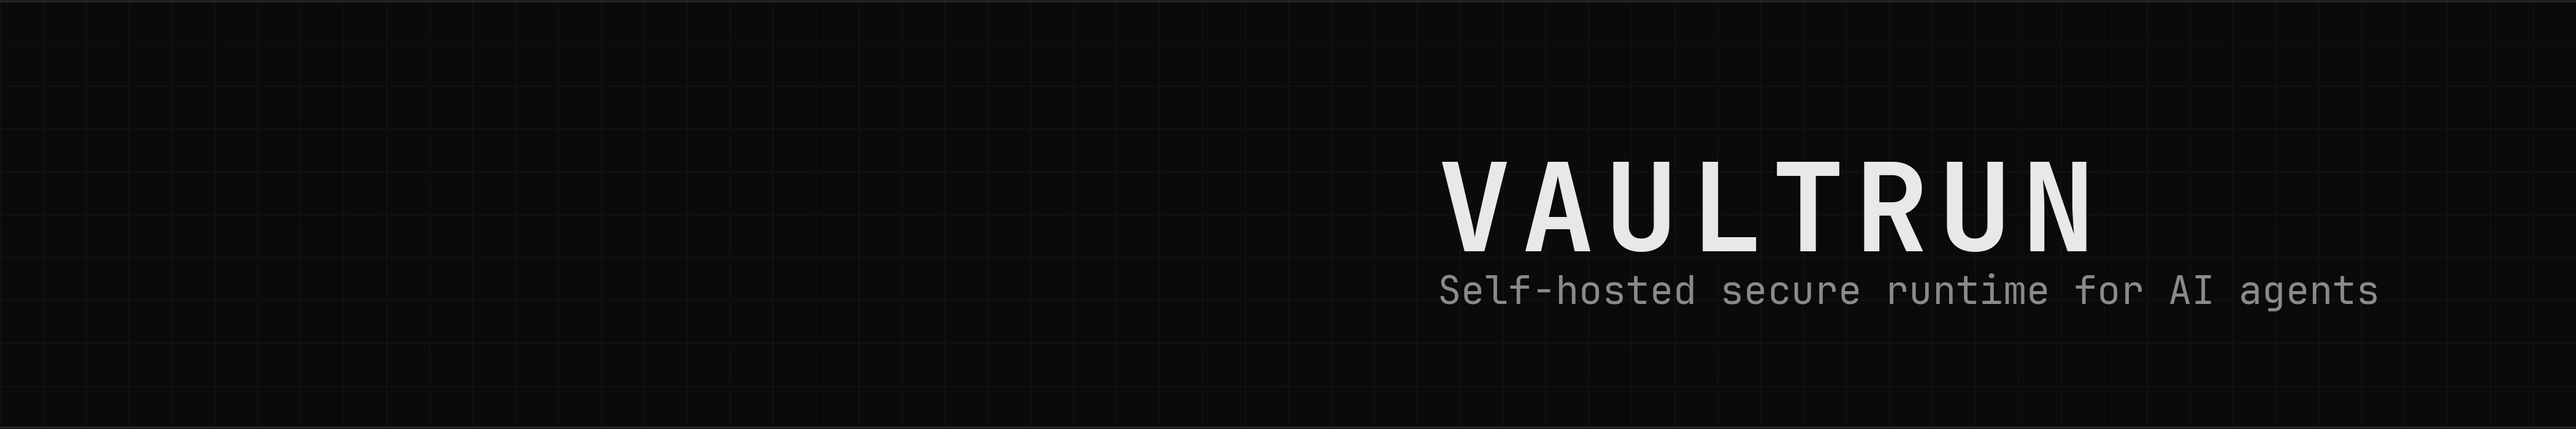
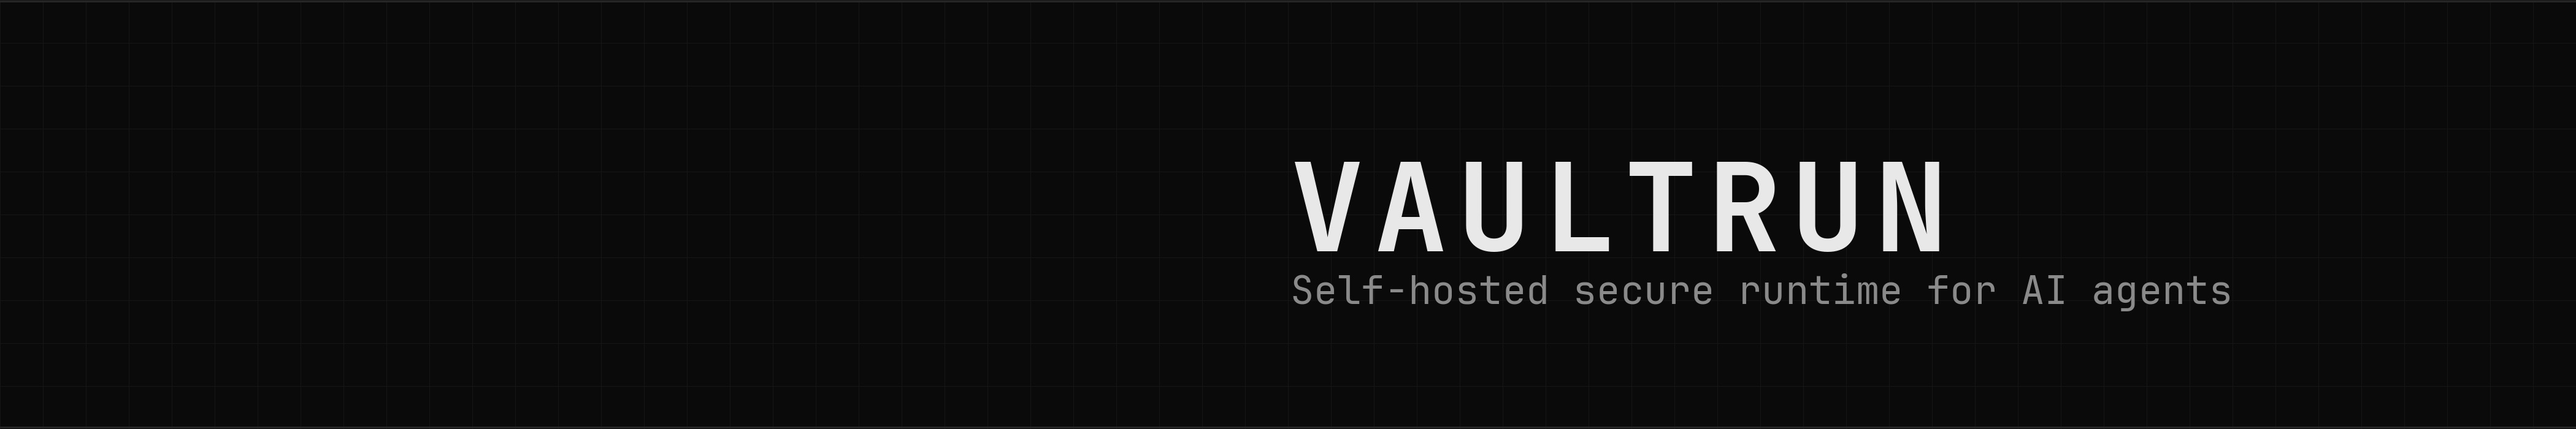
fix(brand): nudge LinkedIn cover type slightly left
Keep the right-weighted layout so the page logo does not cover VAULTRUN,
but add more right margin so the block is not flush with the edge.

Changed region(s): [[0.499, 0.36, 0.811, 0.6], [0.499, 0.63, 0.9357, 0.72]]

diff --git a/scripts/generate-brand-pngs.py b/scripts/generate-brand-pngs.py
@@ -181,8 +181,9 @@ def linkedin_cover() -> Image.Image:
     word_w = text_width(draw, "VAULTRUN", word, tracking)
     tag_w = draw.textlength(tag_line, font=tag)
     block_w = max(word_w, tag_w)
-    # Pack the block to the right; 320px margin so mobile side-crop doesn't clip.
-    tx = w - 320 - int(block_w)
+    # Right-weighted, but not flush: 560px right margin (~64px on the 1128-wide
+    # editor preview) so it sits off the edge without sliding back over the logo.
+    tx = w - 560 - int(block_w)
     block_h = 200 + 24 + 64
     ty = (h - block_h) // 2
     draw_spaced(draw, (tx, ty), "VAULTRUN", word, FG, tracking=tracking)
